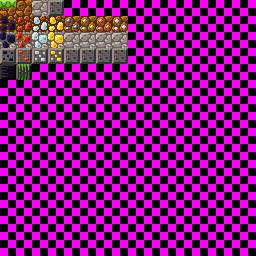
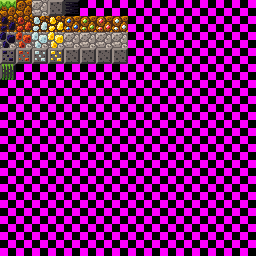
Refactor the TerrainGeneration for use ore constants insead of hardcoded tile numbers

Changed region(s): [[0.0, 0.25, 0.125, 0.3125], [0.25, 0.0, 0.3125, 0.0625]]

diff --git a/GameplayWorld.cs b/GameplayWorld.cs
@@ -9,16 +9,10 @@ public class GameplayWorldClass : BaseTemplateClass
     public static TilemapClass FogOfWarTilemap;
     public static TilemapClass WorldTilemap;
 
-    public static Random GeneratorRandomDice;
-    public static Random OreRandomDice;
-
     public static int PlayerMoney;
 
     public override void Init()
     {
-        GeneratorRandomDice = new Random(0);
-        OreRandomDice = new Random(0);
-
         // Create a 32x32 chunk Tilemap (640x960 in tiles)
         nint? WorldTilemapTexture = SDL3.Image.LoadTexture(MainProgram.MainRenderingWindow.Renderer, "./Assets/Terrain.png");
         int WorldTilemapWidth = 32 * ChunkConstants.CHUNK_WIDTH;
@@ -36,26 +30,6 @@ public class GameplayWorldClass : BaseTemplateClass
         );
 
         TilesTextureHelperClass.DivideTextureIntoTiles(out WorldTilemap.TilemapTileAtlas, (nint)WorldTilemapTexture, 16, 16);
-
-        /*WorldTilemap.TilemapTileAtlas.Add(new SDL.FRect() { X = 0, Y = 0, W = 16, H = 16 });
-        WorldTilemap.TilemapTileAtlas.Add(new SDL.FRect() { X = 16, Y = 0, W = 16, H = 16 });
-        WorldTilemap.TilemapTileAtlas.Add(new SDL.FRect() { X = 32, Y = 0, W = 16, H = 16 });
-        WorldTilemap.TilemapTileAtlas.Add(new SDL.FRect() { X = 48, Y = 0, W = 16, H = 16 });
-        
-        WorldTilemap.TilemapTileAtlas.Add(new SDL.FRect() { X = 0, Y = 16, W = 16, H = 16 });
-        WorldTilemap.TilemapTileAtlas.Add(new SDL.FRect() { X = 16, Y = 16, W = 16, H = 16 });
-        WorldTilemap.TilemapTileAtlas.Add(new SDL.FRect() { X = 32, Y = 16, W = 16, H = 16 });
-        WorldTilemap.TilemapTileAtlas.Add(new SDL.FRect() { X = 48, Y = 16, W = 16, H = 16 });
-
-        WorldTilemap.TilemapTileAtlas.Add(new SDL.FRect() { X = 0, Y = 32, W = 16, H = 16 });
-        WorldTilemap.TilemapTileAtlas.Add(new SDL.FRect() { X = 16, Y = 32, W = 16, H = 16 });
-        WorldTilemap.TilemapTileAtlas.Add(new SDL.FRect() { X = 32, Y = 32, W = 16, H = 16 });
-        WorldTilemap.TilemapTileAtlas.Add(new SDL.FRect() { X = 48, Y = 32, W = 16, H = 16 });
-
-        WorldTilemap.TilemapTileAtlas.Add(new SDL.FRect() { X = 0, Y = 48, W = 16, H = 16 });
-        WorldTilemap.TilemapTileAtlas.Add(new SDL.FRect() { X = 16, Y = 48, W = 16, H = 16 });
-        WorldTilemap.TilemapTileAtlas.Add(new SDL.FRect() { X = 32, Y = 48, W = 16, H = 16 });
-        WorldTilemap.TilemapTileAtlas.Add(new SDL.FRect() { X = 48, Y = 48, W = 16, H = 16 });*/
 
         TerrainGeneratorClass.SetCurrentTilemap(WorldTilemap);
         TerrainGeneratorClass.GenerateTerrain();
@@ -123,20 +97,5 @@ public class GameplayWorldClass : BaseTemplateClass
                 );
             }
         }
-    }
-
-    private int GetGeneratorIncrementalResult(int _StartGenerationY, int _EndGenerationY, int _CurrentYGeneration)
-    {
-        if (_CurrentYGeneration < _StartGenerationY)
-        {
-            return -1;
-        }
-        
-        float GenerationStrength = _EndGenerationY - _StartGenerationY;
-
-        int YGeneration = (int)MathF.Ceiling(GenerationStrength / (_CurrentYGeneration - _StartGenerationY));
-        int GenerationResult = GeneratorRandomDice.Next(0, YGeneration);
-
-        return GenerationResult;
     }
 }

diff --git a/Classes/TerrainGenerator/TerrainGeneratorClass.cs b/Classes/TerrainGenerator/TerrainGeneratorClass.cs
@@ -16,66 +16,71 @@ class TerrainGeneratorClass
 
     public static void GenerateTerrain()
     {
-        PlotTilesRect(0, 10, CurrentTilemap.TilemapWidth, CurrentTilemap.TilemapHeight, 2);
-        PlotTilesRect(0, 200, CurrentTilemap.TilemapWidth, CurrentTilemap.TilemapHeight, 3);
-        PlotTilesRect(0, 400, CurrentTilemap.TilemapWidth, CurrentTilemap.TilemapHeight, 4);
+        if (CurrentTilemap == null)
+        {
+            return;
+        }
+        
+        PlotTilesRect(0, 10, CurrentTilemap.TilemapWidth, CurrentTilemap.TilemapHeight, TerrainTilesConstants.DIRT_TILE);
+        PlotTilesRect(0, 200, CurrentTilemap.TilemapWidth, CurrentTilemap.TilemapHeight, TerrainTilesConstants.STONE_TILE);
+        PlotTilesRect(0, 400, CurrentTilemap.TilemapWidth, CurrentTilemap.TilemapHeight, TerrainTilesConstants.HARD_STONE_TILE);
 
         PlotRandomTilesRect(
             0, 11,
             CurrentTilemap.TilemapWidth, 200,
-            5,
+            TerrainTilesConstants.COAL_ORE_TILE,
             0.01f
         );
         PlotRandomTilesRect(
             0, 30,
             CurrentTilemap.TilemapWidth, 200,
-            5,
+            TerrainTilesConstants.COAL_ORE_TILE,
             0.02f
         );
 
         PlotRandomTilesRect(
             0, 60,
             CurrentTilemap.TilemapWidth, 200,
-            6,
+            TerrainTilesConstants.COPPER_ORE_TILE,
             0.01f
         );
         PlotRandomTilesRect(
             0, 90,
             CurrentTilemap.TilemapWidth, 200,
-            6,
+            TerrainTilesConstants.COPPER_ORE_TILE,
             0.02f
         );
 
         PlotRandomTilesRect(
             0, 200,
             CurrentTilemap.TilemapWidth, 400,
-            6 + 4,
+            TerrainTilesConstants.COPPER_ORE_TILE + 16,
             0.02f
         );
         
         PlotRandomTilesRect(
             0, 230,
             CurrentTilemap.TilemapWidth, 400,
-            7 + 4,
+            TerrainTilesConstants.SILVER_ORE_TILE + 16,
             0.01f
         );
         PlotRandomTilesRect(
             0, 290,
             CurrentTilemap.TilemapWidth, 400,
-            7 + 4,
+            TerrainTilesConstants.SILVER_ORE_TILE + 16,
             0.02f
         );
 
         PlotRandomTilesRect(
             0, 320,
             CurrentTilemap.TilemapWidth, 400,
-            8 + 4,
+            TerrainTilesConstants.GOLD_ORE_TILE + 16,
             0.02f
         );
         PlotRandomTilesRect(
             0, 360,
             CurrentTilemap.TilemapWidth, 400,
-            8 + 4,
+            TerrainTilesConstants.GOLD_ORE_TILE + 16,
             0.02f
         );
 

diff --git a/Entities/PlayerEntityClass.cs b/Entities/PlayerEntityClass.cs
@@ -98,7 +98,7 @@ class PlayerEntityClass : EntityClass
         float PlayerPositionX = TweenClass.LERPInterpolate(OldPositionX, NewPositionX, MovementCuantity);
         float PlayerPositionY = TweenClass.LERPInterpolate(OldPositionY, NewPositionY, MovementCuantity);
 
-        if (GameplayWorldClass.WorldTilemap.GetTile(TargetTilePositionX, TargetTilePositionY) % 4 == 0)
+        if (GameplayWorldClass.WorldTilemap.GetTile(TargetTilePositionX, TargetTilePositionY) % 16 == 0)
         {
             MovementCuantity = MovementCuantity + 0.20f;
         } else

diff --git a/TerrainTilesConstants.cs b/TerrainTilesConstants.cs
@@ -1,0 +1,18 @@
+using System;
+using SDL3;
+using RootBeer_CS;
+using GameClasses;
+
+public class TerrainTilesConstants
+{
+    public const int GRASS_TILE = 1;
+    public const int DIRT_TILE = 2;
+    public const int STONE_TILE = 3;
+    public const int HARD_STONE_TILE = 4;
+    public const int UNBREAKABLE_STONE_TILE = 5;
+
+    public const int COAL_ORE_TILE = 17;
+    public const int COPPER_ORE_TILE = 18;
+    public const int SILVER_ORE_TILE = 19;
+    public const int GOLD_ORE_TILE = 20;
+}

diff --git a/ChunkConstants.cs b/ChunkConstants.cs
@@ -5,7 +5,7 @@ using GameClasses;
 
 public class ChunkConstants
 {
-    public static int CHUNK_WIDTH = 20;
-    public static int CHUNK_HEIGHT = 15;
-    public static int CHUNK_TILE_SIZE = 16;
+    public const int CHUNK_WIDTH = 20;
+    public const int CHUNK_HEIGHT = 15;
+    public const int CHUNK_TILE_SIZE = 16;
 }
